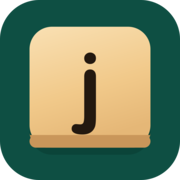
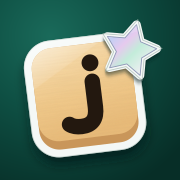
feat: a Jade's World brand mark and sticker wordmark
The icon is the wordmark's lifted maple "j" tile, die-cut as the album's first sticker, with a silver foil star on its
corner, on the jade page. One generator (apps/web/scripts/icon-mark.mjs, run by icons.sh) builds the favicon and every
PNG, including a new full-bleed maskable icon and a full-bleed iOS touch icon. The "j" is drawn as shapes, so the
favicon no longer depends on Fredoka being installed. The wordmark's "world" now sits on a small die-cut sticker.

The description now mentions Roxy's dress-up studio, and the last "Jade Learning" title is gone.

diff --git a/apps/web/src/components/Brand.tsx b/apps/web/src/components/Brand.tsx
@@ -1,6 +1,9 @@
 import { Tile } from "@jade/ui/components/tile";
 
-/** The wordmark: "jade’s" set as tiles, the j a touch lifted like it was just placed, then "world". */
+/**
+ * The wordmark: "jade’s" set as tiles, the j a touch lifted like it was just placed, then "world" on a die-cut sticker
+ * pressed onto the page beside them: the album's two materials, the tiles you handle and the stickers you collect.
+ */
 export function Brand({ size = 34 }: { size?: number }) {
 	return (
 		<span className="inline-flex items-end gap-1" role="img" aria-label="Jade's World">
@@ -13,7 +16,20 @@ export function Brand({ size = 34 }: { size?: number }) {
 					style={i === 0 ? { transform: "translateY(-4px) rotate(-6deg)" } : c.length > 1 ? { fontSize: size * 0.46 } : undefined}
 				/>
 			))}
-			<span aria-hidden className="ml-2 font-display font-medium text-page-muted" style={{ fontSize: size * 0.55 }}>
+			<span
+				aria-hidden
+				className="sticker ml-2 font-display leading-none font-semibold text-page-ink"
+				style={
+					{
+						"--tilt": "3deg",
+						fontSize: size * 0.5,
+						padding: `${size * 0.16}px ${size * 0.3}px ${size * 0.2}px`,
+						borderWidth: Math.max(2, size * 0.09),
+						borderRadius: size * 0.3,
+						marginBottom: size * 0.08,
+					} as React.CSSProperties
+				}
+			>
 				world
 			</span>
 		</span>

diff --git a/apps/web/vite.config.ts b/apps/web/vite.config.ts
@@ -21,7 +21,7 @@ export default defineConfig({
 			manifest: {
 				name: "Jade's World",
 				short_name: "Jade's World",
-				description: "Spelling bee and math practice for 8–11 year olds.",
+				description: "Spelling bee and math practice for 8–11 year olds, with stars to spend in Roxy’s dress-up studio.",
 				theme_color: "#0e4f43",
 				background_color: "#0e4f43",
 				display: "standalone",
@@ -30,7 +30,7 @@ export default defineConfig({
 				icons: [
 					{ src: "/icon-192.png", sizes: "192x192", type: "image/png" },
 					{ src: "/icon-512.png", sizes: "512x512", type: "image/png" },
-					{ src: "/icon-512.png", sizes: "512x512", type: "image/png", purpose: "maskable" },
+					{ src: "/icon-maskable-512.png", sizes: "512x512", type: "image/png", purpose: "maskable" },
 				],
 			},
 			workbox: {

diff --git a/apps/web/index.html b/apps/web/index.html
@@ -17,7 +17,7 @@
 		<meta name="apple-mobile-web-app-capable" content="yes" />
 		<meta name="apple-mobile-web-app-status-bar-style" content="black-translucent" />
 		<meta name="apple-mobile-web-app-title" content="Jade's World" />
-		<meta name="description" content="Spelling bee and math practice for 8–11 year olds." />
+		<meta name="description" content="Spelling bee and math practice for 8–11 year olds, with stars to spend in Roxy’s dress-up studio." />
 		<link rel="icon" href="/favicon.svg" type="image/svg+xml" />
 		<link rel="apple-touch-icon" href="/apple-touch-icon.png" />
 		<title>Jade's World</title>

diff --git a/DESIGN.md b/DESIGN.md
@@ -233,7 +233,7 @@ At Night, place stickers sit under the lamp a step quieter (saturate 0.9, bright
 
 ### Neutral
 - **Chalk** (page-ink): all text on the page, focus rings, filled pips, caret and accent colour, and the face of the primary `go` key. By Day it is a deep jade ink.
-- **Lichen** (page-muted): secondary text on the page (5.6:1 at Night, 6.0:1 by Day), empty pip rings, slot labels, and the brand's "world".
+- **Lichen** (page-muted): secondary text on the page (5.6:1 at Night, 6.0:1 by Day), empty pip rings, and slot labels.
 - **Walnut Ink** (ink): text on maple and on the rack.
 - **Soft Ink** (ink-soft): point numbers on tiles.
 
@@ -389,7 +389,9 @@ The play row. It holds typed tiles, then squares (every remaining square when th
 - **Focus:** the global chalk outline at a 1px offset.
 
 ### Navigation
-The parent header puts the Brand (five tiles "jade's" plus "world" in Lichen) on the left. On the right are page keys: Lists, Kids and Settings, with the current section `data-pressed` (list and progress pages count as Lists and Kids), then Practice with a back arrow, set apart from the section keys. On a phone the three section keys drop to their own full-width row. Sign-out lives in Settings → Account and on the PIN gate, never beside Practice. Sub-pages open with a page back key ("← Lists", "← Kids"); play screens open with "← Subjects".
+The parent header puts the Brand (five tiles "jade's", the j lifted, plus "world" on a small die-cut sticker with no place hue, tilted 3deg) on the left. On the right are page keys: Lists, Kids and Settings, with the current section `data-pressed` (list and progress pages count as Lists and Kids), then Practice with a back arrow, set apart from the section keys. On a phone the three section keys drop to their own full-width row. Sign-out lives in Settings → Account and on the PIN gate, never beside Practice. Sub-pages open with a page back key ("← Lists", "← Kids"); play screens open with "← Subjects".
+
+**Brand mark.** The wordmark's lifted maple "j" tile, die-cut as the album's first sticker (white vinyl rim, gloss, -7deg tilt, soft lift shadow) with a holographic foil star stuck on its upper right corner, on the jade page under the lamp. It is the favicon and every app icon; all of them are generated from `apps/web/scripts/icon-mark.mjs` by `scripts/icons.sh`. The maskable icon keeps the mark inside the central 80% circle, and the iOS touch icon is full bleed.
 
 Parent word racks (`WordRack`) fit their row: tiles shrink for a long word in a narrow row down to 14–16px, so a rack never pushes the page sideways or its ✕ off-screen. Words read from a photo wear a dashed Lichen outline and a small "check" until the parent fixes or accepts them; they drop onto the rack one after another as they arrive.
 

diff --git a/README.md b/README.md
@@ -1,6 +1,6 @@
 # Jade's World
 
-Spelling bee and math practice for 8–11 year olds, on laptop and iPad. Live at https://jadesworld.app
+Spelling bee and math practice for 8–11 year olds, on laptop and iPad, with stars to spend in Roxy’s dress-up studio. Live at https://jadesworld.app
 
 A parent loads this week's school words: paste them, drop a CSV, snap a photo of the sheet, or start from a grade pack.
 
